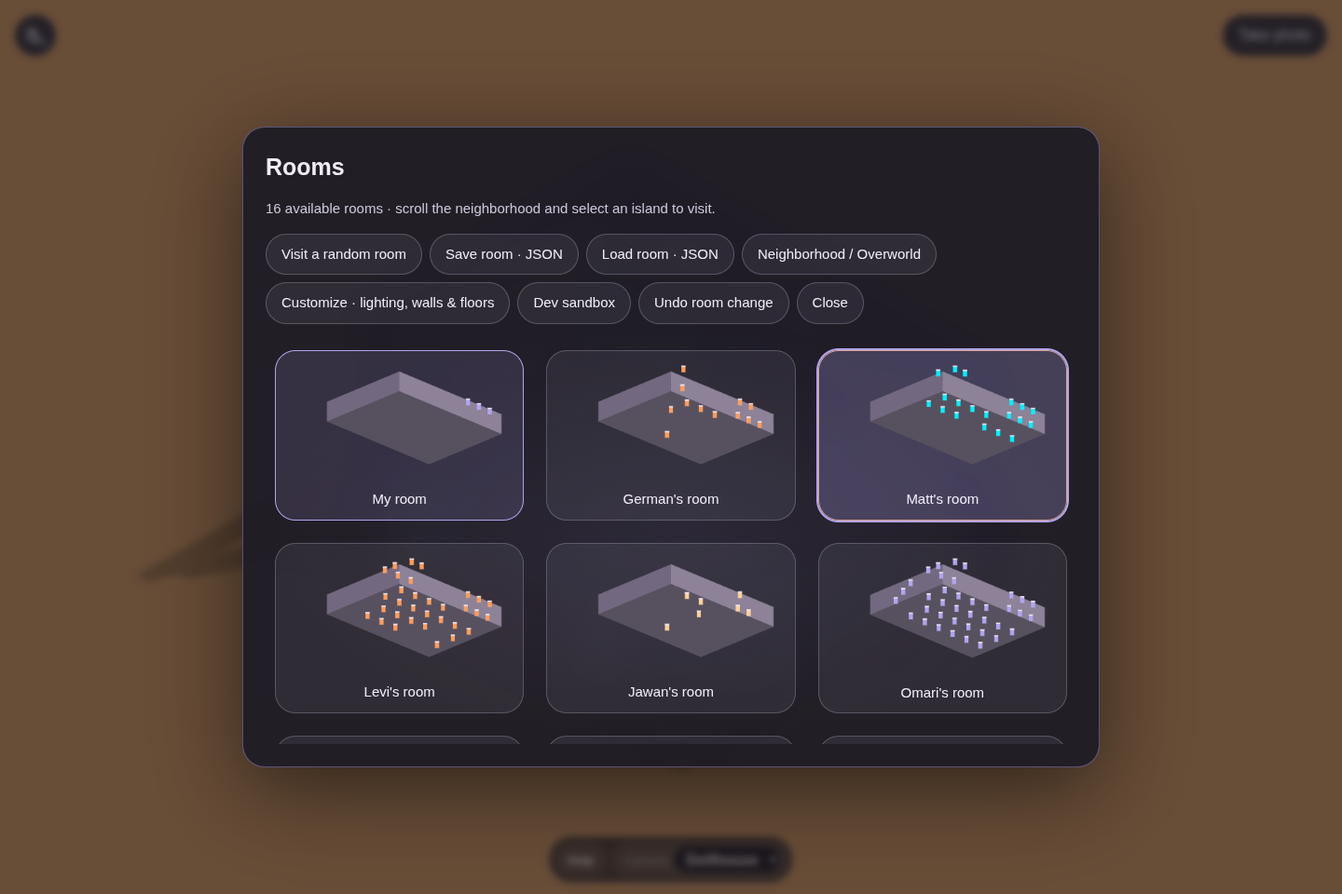
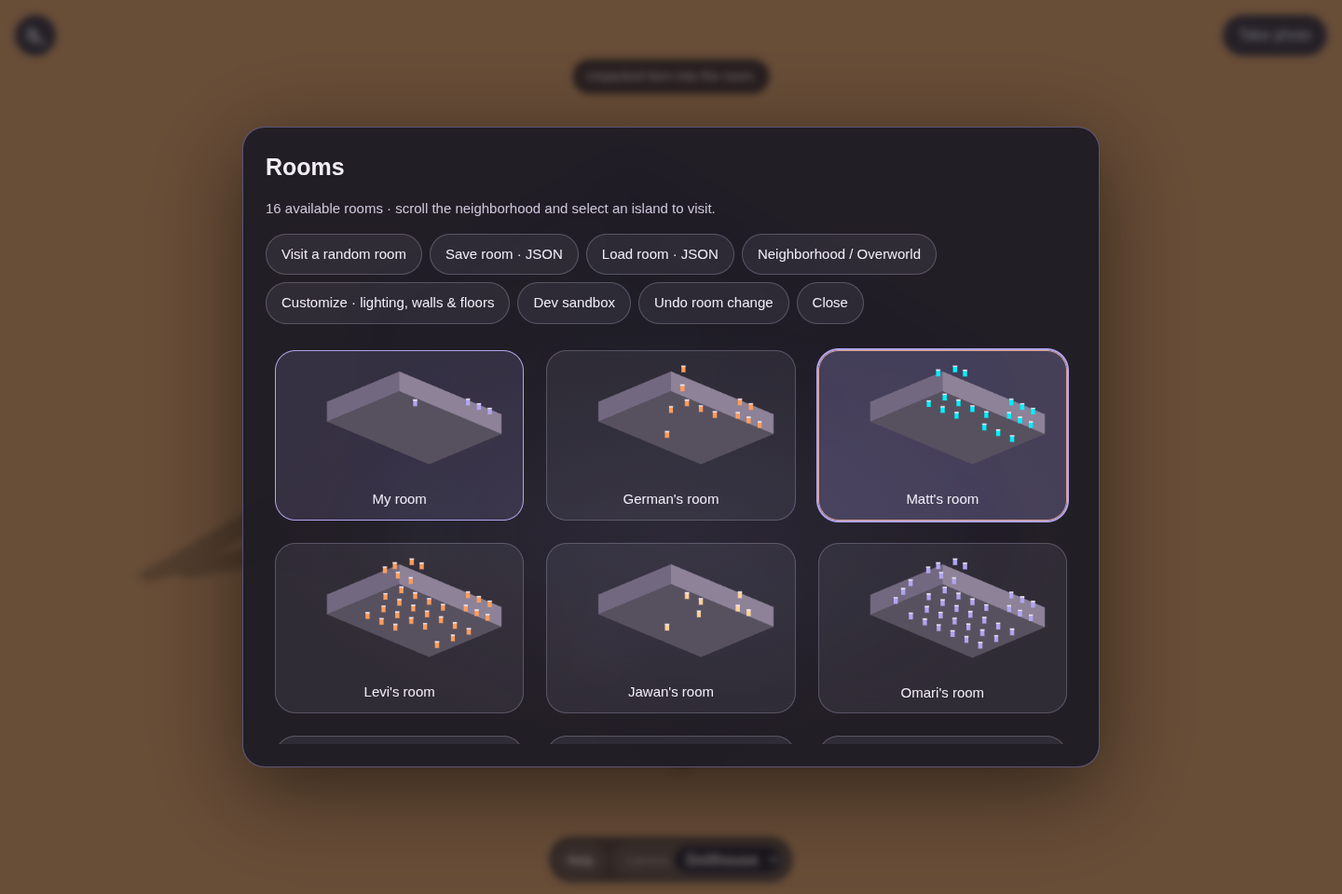
feat(items): add Unpack tray and Pack item wording without schema changes

Changed region(s): [[0.4062, 0.0625, 0.5938, 0.125]]

diff --git a/dev-sandbox/src/core/onboarding.ts b/dev-sandbox/src/core/onboarding.ts
@@ -22,11 +22,11 @@ export const LESSONS: Record<LessonId, TutorialStep[]> = {
     { id:'import-export', lesson:'bookmarks', title:'Export bookmarks on desktop', prompt:'In your browser bookmark manager, export bookmarks as HTML. Or download the sample below. File picking is desktop-first; VR has no file importer. Confirm when ready.', target:'[data-tutorial="export-ready"]', event:'export-ready' },
     { id:'import-empty', lesson:'bookmarks', title:'Try an empty or malformed file', prompt:'Download the empty/malformed sample. Open Import and choose it with Bookmarks file (.html). No supported links means zero changes; cancel the picker and retry anytime.', target:'[data-tutorial="bookmark-file"]', event:'import-empty' },
     { id:'import-file', lesson:'bookmarks', title:'Import the overflow sample', prompt:'Choose tutorial-bookmarks.html using the actual Bookmarks file control. It contains folder tags, an exact duplicate, unsupported URLs, and more links than free pads.', target:'[data-tutorial="bookmark-file"]', event:'imported' },
-    { id:'import-dedupe', lesson:'bookmarks', title:'Import the same sample again', prompt:'Read the added / placed / inbox counts below. Folders become tags, not rooms. Exact URL duplicates are skipped. Select the same sample again: added must be zero.', target:'[data-tutorial="bookmark-file"]', event:'import-duplicate' },
-    { id:'import-inbox', lesson:'bookmarks', title:'Find overflow in Inbox', prompt:'Open the editor and find the rows marked inbox. Imported content remains saved in practice even without a room object. VR supports Inbox and Bring out after desktop import.', target:'.row.inbox', event:'inbox-open' },
-    { id:'import-stash', lesson:'bookmarks', title:'Free a pad', prompt:'Stash one imported object. Stash keeps its link and tags in Inbox; it is not Delete.', target:'.row:not(.inbox) [data-action="stash"]', event:'stashed' },
-    { id:'import-restore', lesson:'bookmarks', title:'Recover an overflow item', prompt:'Bring out one of the original overflow links into the free pad. On VR use Inbox → Bring out. No room reset is needed.', target:'.row.inbox [data-action="bring-out"]', event:'restored' },
-    { id:'import-undo', lesson:'bookmarks', title:'Undo practice import', prompt:'Use Undo to reverse recovery, stash, then the import. Empty/duplicate imports create no undo entry. Personal rooms remain untouched; Exit discards all practice.', target:'[data-tutorial="undo"]', event:'import-undone' },
+    { id:'import-dedupe', lesson:'bookmarks', title:'Import the same sample again', prompt:'Read the added / placed / Packed items counts below. Folders become tags, not rooms. Exact URL duplicates are skipped. Select the same sample again: added must be zero.', target:'[data-tutorial="bookmark-file"]', event:'import-duplicate' },
+    { id:'import-inbox', lesson:'bookmarks', title:'Find overflow in Packed items', prompt:'Open the editor and find the rows marked Packed items. Imported content remains saved in practice even without a room object. In VR open the item pillar’s Unpack tray after desktop import.', target:'.row.inbox', event:'inbox-open' },
+    { id:'import-stash', lesson:'bookmarks', title:'Free a pad', prompt:'Choose Pack item on one imported object. Packing keeps its link and tags in Packed items; it is not Delete.', target:'.row:not(.inbox) [data-action="stash"]', event:'stashed' },
+    { id:'import-restore', lesson:'bookmarks', title:'Recover an overflow item', prompt:'Unpack one of the original overflow links into the free pad. In VR use the item pillar → Unpack. No room reset is needed.', target:'.row.inbox [data-action="bring-out"]', event:'restored' },
+    { id:'import-undo', lesson:'bookmarks', title:'Undo practice import', prompt:'Use Undo to reverse unpacking, packing, then the import. Empty/duplicate imports create no undo entry. Personal rooms remain untouched; Exit discards all practice.', target:'[data-tutorial="undo"]', event:'import-undone' },
   ],
   create: [
     { id: 'create-open', lesson: 'create', title: 'Open Add object', prompt: 'Open Add object from Edit room or the VR menu.', target: '[data-tutorial="open-add"], [data-tutorial="add-object"], [data-tutorial="xr-add"]', event: 'open-add' },
@@ -45,8 +45,8 @@ export const LESSONS: Record<LessonId, TutorialStep[]> = {
     { id:'move-cancel', lesson:'move', title:'Cancel the move', prompt:'Press Escape or Cancel move. The same object and content return to their original pad.', target:'[data-tutorial="cancel-move"]', event:'move-cancelled' },
     { id:'move-pick-again', lesson:'move', title:'Pick up again', prompt:'Select Practice object and Pick up again. Occupied pink pads swap both objects when moving a placed object; neither content is deleted. Use a free yellow pad next.', target:'[data-action="pick-up"]', event:'picked' },
     { id: 'move-place' , lesson: 'move', title: 'Place it', prompt: 'Drop it on a free pad.', target: '.slot-marker, [data-tutorial="place-pad"]', event: 'placed' },
-    { id: 'move-stash', lesson: 'move', title: 'Put it away', prompt: 'Put away / Stash sends it to Inbox, not delete.', target: 'button[data-action="stash"], [data-tutorial="xr-stash"]', event: 'stashed' },
-    { id: 'move-restore', lesson: 'move', title: 'Bring it back', prompt: 'Open Inbox and restore it.', target: '[data-action="bring-out"], [data-tutorial="xr-inbox"]', event: 'restored' },
+    { id: 'move-stash', lesson: 'move', title: 'Pack item', prompt: 'Pack item keeps its content in the item pillar’s Unpack tray; it does not delete it.', target: 'button[data-action="stash"], [data-tutorial="xr-stash"]', event: 'stashed' },
+    { id: 'move-restore', lesson: 'move', title: 'Bring it back', prompt: 'Open the item pillar’s Unpack tray and restore it.', target: '[data-action="bring-out"], [data-tutorial="xr-inbox"]', event: 'restored' },
   ],
   rooms: [
     { id: 'rooms-open', lesson: 'rooms', title: 'Open Rooms', prompt: 'Open the Rooms list. Each room keeps its own local save.', target: '[data-tutorial="rooms"], [data-tutorial="xr-rooms"]', event: 'open-rooms' },

diff --git a/dev-sandbox/src/xr/interaction.ts b/dev-sandbox/src/xr/interaction.ts
@@ -1,4 +1,5 @@
 import type { Store } from '../core/store';
+import { packedItems, unpackItem, unpackMessage } from '../core/packed-items';
 import { roomCatalog, randomRoom, visitCatalogRoom } from '../core/room-portal';
 import { OBJECT_KINDS, OBJECT_LABELS, type ObjectKind } from '../core/types';
 import { LIGHTING_PRESETS, type Lighting } from '../core/appearance';
@@ -210,6 +211,7 @@ export interface PanelButton {
 }
 
 export interface PanelActionResult {
+  status?: string;
   devSandbox?: boolean;
   roomFile?: 'save' | 'load';
   portalFiles?: boolean;
@@ -304,7 +306,7 @@ export function objectActions(store: Store): PanelButton[] {
   const actions: PanelButton[] = [
     { id: 'page:object', label: 'Edit' },
     { id: 'move', label: 'Move' },
-    { id: 'stash:' + selected.id, label: 'Put away' },
+    { id: 'stash:' + selected.id, label: 'Pack item' },
   ];
   if (inspectPreview(store, selected.id).href) actions.push({ id: 'open:link', label: 'Open' });
   return actions;
@@ -340,6 +342,7 @@ export function panelButtons(store: Store, page: PanelPage, rooms: NeighborhoodR
     { id: 'page:home', label: 'Back' },
     { id: 'page:create', label: 'Add link or text (VR keyboard)' },
     { id: 'portal:drop', label: '⭐ Random drop' },
+    { id: 'page:inbox', label: 'Unpack' },
     { id: 'portal:files', label: 'Files, photos & bookmarks (browser form)' },
     { id: 'portal:clean', label: 'Hold trigger to spring clean' },
   ];
@@ -372,10 +375,11 @@ export function panelButtons(store: Store, page: PanelPage, rooms: NeighborhoodR
     ];
   }
   if (page === 'inbox') {
-    const inbox = store.state.contentItems.filter((item) => !store.repFor(item.id));
+    const inbox = packedItems(store);
     return [
-      { id: 'page:home', label: 'Back' },
-      ...inbox.map((item) => ({ id: 'out:' + item.id, label: `Bring out: ${item.title}` })),
+      { id: 'page:portal', label: 'Back to Items' },
+      ...(!inbox.length ? [{ id: 'packed:empty', label: 'No packed items. Pack an item to keep it here.' }] : []),
+      ...inbox.map((item) => ({ id: 'out:' + item.id, label: `Unpack: ${item.title}` })),
     ];
   }
   if (page === 'rooms') {
@@ -433,7 +437,7 @@ export function panelButtons(store: Store, page: PanelPage, rooms: NeighborhoodR
       { id: 'guide:rooms', label: 'Practice: rooms' },
       { id: 'guide:style', label: 'Practice: style' },
       { id: 'howto:create', label: 'Create an item' },
-      { id: 'howto:move', label: 'Move and put away' },
+      { id: 'howto:move', label: 'Move and pack items' },
       { id: 'howto:rooms', label: 'Visit rooms' },
       { id: 'howto:style', label: 'Change the look' },
       { id: 'howto:skip', label: 'Skip how-to' },
@@ -442,7 +446,7 @@ export function panelButtons(store: Store, page: PanelPage, rooms: NeighborhoodR
   if (page.startsWith('howto-')) {
     const copy: Record<string, string> = {
       'howto-create': 'Desktop: tap + then Add object. VR: assign a kind, then place it on a pad.',
-      'howto-move': 'Select an object, choose Move, then a pad. Put away sends it to Inbox. Cancel restores it.',
+      'howto-move': 'Select an object, choose Move, then a pad. Pack item keeps it in the item pillar’s Unpack tray. Cancel restores a move.',
       'howto-rooms': 'Open Rooms, pick a saved room, then Return home. Visiting does not overwrite your save.',
       'howto-style': 'Lighting, Surfaces, and Theme change this room only. Music is independent.',
     };
@@ -472,9 +476,9 @@ export function panelButtons(store: Store, page: PanelPage, rooms: NeighborhoodR
     { id: 'undo', label: store.canUndo ? 'Undo' : 'Undo (nothing yet)' },
     { id: 'cancel', label: 'Cancel selection' },
   );
-  if (selected) home.push({ id: 'stash:' + selected.id, label: 'Stash' });
+  if (selected) home.push({ id: 'stash:' + selected.id, label: 'Pack item' });
   if (store.visiting) home.push({ id: 'home:return', label: 'Return home' });
-  home.push({ id: 'page:inbox', label: 'Inbox' }, { id: 'exit', label: 'Exit VR' });
+  home.push({ id: 'exit', label: 'Exit VR' });
   return home;
 }
 
@@ -596,7 +600,7 @@ export function runPanelAction(store: Store, id: string, rooms: NeighborhoodRoom
   else if (id.startsWith('kind:') && store.selectedId) store.setKind(store.selectedId, id.slice(5) as ObjectKind);
   else if (id.startsWith('light:')) { store.setLighting((id.slice(6) || undefined) as Lighting | undefined); return { tutorialEvent: 'styled' }; }
   else if (id.startsWith('stash:') && store.selectedId) store.stash(store.selectedId);
-  else if (id.startsWith('out:')) store.bringOut(id.slice(4));
+  else if (id.startsWith('out:')) return { status: unpackMessage(unpackItem(store, id.slice(4))) };
   else if (id.startsWith('music:')) {
     const value = id.slice(6);
     if (value === 'follow') store.setSoundtrack(undefined);

diff --git a/dev-sandbox/tests/unpack-tray.test.ts b/dev-sandbox/tests/unpack-tray.test.ts
@@ -1,0 +1,32 @@
+import test from 'node:test';
+import assert from 'node:assert/strict';
+import { Store,newRoom } from '../src/core/store';
+import { packedItems,unpackItem } from '../src/core/packed-items';
+import { LESSONS } from '../src/core/onboarding';
+import { panelButtons,runPanelAction } from '../src/xr/interaction';
+test('visible tutorial copy says Pack item/Unpack while compatibility IDs remain unchanged',()=>{
+ for(const step of Object.values(LESSONS).flat())assert.doesNotMatch(step.title+' '+step.prompt,/stash|inbox/i);
+ const step=LESSONS.move.find(s=>s.id==='move-stash')!;assert.equal(step.event,'stashed');assert.match(step.target,/data-action="stash"/);assert.match(step.title,/Pack item/);
+});
+const saved=new Map<string,string>();
+globalThis.localStorage={getItem:(k:string)=>saved.get(k)??null,setItem:(k:string,v:string)=>saved.set(k,v)} as Storage;
+test('Pack item then Unpack restores the same content and chosen model, with no duplicate and persisted state',()=>{
+ const store=new Store(newRoom('Mine'),'unpack-proof');const id=store.addItem({title:'My guitar',sourceRef:'https://example.com/guitar',kind:'guitar'});
+ const content=store.state.representations.find(r=>r.id===id)!.contentItemId;store.stash(id);
+ assert.equal(packedItems(store).length,1);assert.equal(unpackItem(store,content),'unpacked');
+ assert.equal(store.repFor(content)?.objectKind,'guitar');assert.ok(store.slotOf(store.repFor(content)!.id));
+ assert.equal(unpackItem(store,content),'already');assert.equal(store.state.representations.filter(r=>r.contentItemId===content).length,1);
+ const reloaded=new Store(Store.loadSaved('unpack-proof')!,'unpack-proof');assert.equal(reloaded.repFor(content)?.objectKind,'guitar');assert.equal(packedItems(reloaded).length,0);
+});
+test('full rooms leave packed content intact with feedback instead of creating a duplicate or losing its model',()=>{
+ const store=new Store(newRoom('Full'));const id=store.addItem({title:'Keep me',sourceRef:'https://example.com/full',kind:'book'});const content=store.state.representations.find(r=>r.id===id)!.contentItemId;store.stash(id);
+ for(const [i,slot] of store.layout.slots.entries()){store.state.representations.push({id:'filled-'+i,contentItemId:'other-'+i,objectKind:'book'});store.state.placements.push({representationId:'filled-'+i,slotId:slot.id});}
+ assert.equal(unpackItem(store,content),'full');assert.equal(store.repFor(content),undefined);assert.equal(packedItems(store).some(c=>c.id===content),true);assert.equal(store.content(content)?.lastObjectKind,'book');
+});
+test('XR item pillar exposes Unpack tray, empty feedback, Pack item action and real restore status',()=>{
+ const store=new Store(newRoom('Mine'));assert.ok(panelButtons(store,'portal').some(b=>b.id==='page:inbox'&&b.label==='Unpack'));
+ assert.ok(panelButtons(store,'inbox').some(b=>b.label.includes('No packed items')));
+ const id=store.addItem({title:'Packed note',sourceRef:'hello',type:'note'});store.select(id);runPanelAction(store,'stash:'+id);const c=packedItems(store)[0];
+ assert.ok(panelButtons(store,'inbox').some(b=>b.id==='out:'+c.id&&b.label.includes('Unpack')));
+ assert.match(runPanelAction(store,'out:'+c.id).status!,/Unpacked/);
+});

diff --git a/dev-sandbox/src/xr/panel.ts b/dev-sandbox/src/xr/panel.ts
@@ -265,11 +265,11 @@ export class XrPanel {
     c.font = '28px system-ui, sans-serif';
     const preview = this.store.selectedId ? inspectPreview(this.store, this.store.selectedId) : null;
     c.fillStyle = HUD.mint;
-    const section = this.page === 'home' ? 'ROOM CONTROL' : this.page === 'create' ? (this.draft.editing ? 'EDIT CONTENT' : 'CREATE OBJECT') : this.page.replaceAll('-', ' ').toUpperCase();
+    const section = this.page === 'home' ? 'ROOM CONTROL' : this.page === 'create' ? (this.draft.editing ? 'EDIT CONTENT' : 'CREATE OBJECT') : this.page === 'inbox' ? 'UNPACK' : this.page.replaceAll('-', ' ').toUpperCase();
     c.fillText(section, 48, 122);
     const detail = this.page === 'create' && this.draft.error
       ? this.draft.error
-      : this.status || (this.page === 'overworld' ? 'Select an island to visit. More islands shows every available room.' : this.page === 'room-portal' ? 'JSON uses a browser form; without DOM overlay it exits VR.' : this.page === 'portal' ? 'No overlay? Browser import exits VR; your room stays saved.' : this.page === 'jukebox' || this.page === 'music' ? 'Pick a track, then Play. Own music uploads are not supported yet.' : preview?.href || preview?.detail || 'Point at an object to see its name and link.');
+      : this.status || (this.page === 'inbox' ? 'Select a packed item to return its model to a free spot.' : this.page === 'overworld' ? 'Select an island to visit. More islands shows every available room.' : this.page === 'room-portal' ? 'JSON uses a browser form; without DOM overlay it exits VR.' : this.page === 'portal' ? 'No overlay? Browser import exits VR; your room stays saved.' : this.page === 'jukebox' || this.page === 'music' ? 'Pick a track, then Play. Own music uploads are not supported yet.' : preview?.href || preview?.detail || 'Point at an object to see its name and link.');
     c.fillStyle = this.page === 'create' && this.draft.error ? HUD.danger : HUD.muted;
     const description = this.page === 'create' && this.draft.error ? detail : preview?.title ? preview.title + ' · ' + detail : detail;
     c.fillText(this.clip(c, description, 928), 48, 158);

diff --git a/dev-sandbox/src/demo/demo-hud.ts b/dev-sandbox/src/demo/demo-hud.ts
@@ -1,4 +1,5 @@
 import type { Store } from '../core/store';
+import { packedItems, unpackItem, unpackMessage } from '../core/packed-items';
 import { ROOM_TRACKS, TRACK_LABELS, validTrack, type Soundtrack } from '../core/soundtrack';
 import { ensureJukeboxTrack } from '../core/room-amenities';
 import { buildAddForm, buildImport, type FormHost } from '../views/add-forms';
@@ -257,10 +258,31 @@ export function mountSavePointPanel(
   });
   window.addEventListener('pointerup', endHold);
   window.addEventListener('pointercancel', endHold);
+  const unpack = el('details', 'demo-unpack');
+  const unpackSummary = el('summary', '', 'Unpack');
+  const packedList = el('div', 'demo-packed-list');
+  const unpackStatus = el('p', 'demo-unpack-status');
+  unpackStatus.setAttribute('role', 'status');
+  unpack.append(unpackSummary, packedList, unpackStatus);
+  const renderPacked = () => {
+    const items = packedItems(store);
+    unpackSummary.textContent = 'Unpack';
+    packedList.replaceChildren();
+    if (!items.length) packedList.append(el('p', '', 'No packed items. Pack an item to keep it here, then Unpack it later.'));
+    for (const item of items) packedList.append(button('', `Unpack ${item.title}`, () => {
+      const message = unpackMessage(unpackItem(store, item.id));
+      unpackStatus.textContent = message;
+      say(message, 3000);
+      renderPacked();
+    }));
+  };
+  store.subscribe(renderPacked);
+  renderPacked();
   menu.append(
     head,
     button('', '⭐ Random drop', () => { close(); onRandomDrop(); }),
     button('', 'Add link or file', () => show(addSheet)),
+    unpack,
     button('', 'Import from bookmarks (file)', () => show(importSheet)),
     clean,
   );
@@ -276,7 +298,7 @@ export function mountSavePointPanel(
   document.body.append(backdrop, menu, addSheet, importSheet);
 
   return {
-    open: () => { if (store.canEdit) show(menu); },
+    open: () => { if (store.canEdit) { unpackStatus.textContent = ''; renderPacked(); show(menu); } },
     close,
     get isOpen() { return !menu.hidden; },
     showClean() { clean.hidden = false; },

diff --git a/dev-sandbox/src/views/menu.ts b/dev-sandbox/src/views/menu.ts
@@ -6,6 +6,7 @@ import { preparePhoto } from './photo-upload';
 import { previewOpenUrl } from '../core/preview';
 import { SHOW_PREVIEW_BUTTON } from '../core/demo-flags';
 import { Store } from '../core/store';
+import { unpackItem, unpackMessage } from '../core/packed-items';
 import { ROOMS_PICKER_ORDER, displayRoomName, isDemoHomeAlias, isDemoSessionRoom, openRoom, seedRoom } from '../core/rooms';
 import { THEMES } from '../core/themes';
 import { OBJECT_KINDS, OBJECT_LABELS, type ObjectKind } from '../core/types';
@@ -490,12 +491,12 @@ export class MenuView {
     if (href) meta.append(el('a', { href, target: '_blank', rel: 'noopener noreferrer', textContent: 'open' }));
     else meta.append(c.imageData ? 'local photo · included in export' : c.sourceRef || 'note');
 
-    const where = el('div', { class: 'where' }, rep ? (slotLabel ?? 'held: pick a spot in the room') : 'inbox (not in room)');
+    const where = el('div', { class: 'where' }, rep ? (slotLabel ?? 'held: pick a spot in the room') : 'Packed items (not in room)');
 
     const actions = el('div', { class: 'actions' });
-    const act = (label: string, fn: () => void) => {
+    const act = (label: string, fn: () => void, actionId = label.toLowerCase().replace(/ /g, '-')) => {
       const b = el('button', { textContent: label });
-      b.dataset.action = label.toLowerCase().replace(/ /g, '-');
+      b.dataset.action = actionId;
       b.addEventListener('click', (e) => {
         e.stopPropagation();
         fn();
@@ -521,9 +522,9 @@ export class MenuView {
           store.pickUp(rep.id);
           this.closeSheets();
         });
-        act('Stash', () => store.stash(rep.id));
+        act('Pack item', () => store.stash(rep.id), 'stash');
       } else {
-        act('Bring out', () => store.bringOut(c.id));
+        act('Unpack', () => this.flash(unpackMessage(unpackItem(store, c.id))), 'bring-out');
       }
       if (!c.locked) act('Delete', () => store.deleteContent(c.id));
     }

diff --git a/dev-sandbox/src/views/tutorial.ts b/dev-sandbox/src/views/tutorial.ts
@@ -36,7 +36,7 @@ export class TutorialView {
     document.addEventListener('palace-import', event => {
       if (!this.store.canEdit || this.state.lesson !== 'bookmarks') return;
       const {entries,added,placed} = (event as CustomEvent<{entries:BookmarkEntry[];added:number;placed:number}>).detail;
-      this.result = `${added} added · ${placed} placed · ${added-placed} to Inbox. Folder tags: ${[...new Set(entries.map(e=>e.folder).filter(Boolean))].join(', ') || 'none'}.`;
+      this.result = `${added} added · ${placed} placed · ${added-placed} to Packed items. Folder tags: ${[...new Set(entries.map(e=>e.folder).filter(Boolean))].join(', ') || 'none'}.`;
       if (!entries.length && !added) this.accept('import-empty');
       else if (added > 0 && placed > 0 && added > placed && entries.every(e=>e.url.startsWith('https://example.com/practice/'))) {
         this.overflow = new Set(this.store.state.contentItems.filter(c=>!this.store.repFor(c.id)).map(c=>c.id));
@@ -89,7 +89,7 @@ export class TutorialView {
     const intro = button('Watch the intro', () => { window.location.assign(INTRO_PATH); });
     intro.dataset.tutorial = 'watch-intro';
     this.card.append(intro);
-    for (const [id,label] of Object.entries({bookmarks:'Import bookmarks',create:'Create content',move:'Move, stash and restore',rooms:'Visit local rooms',style:'Themes, lighting and surfaces'})) this.card.append(button(label,()=>this.start(id as LessonId)));
+    for (const [id,label] of Object.entries({bookmarks:'Import bookmarks',create:'Create content',move:'Move, pack and unpack',rooms:'Visit local rooms',style:'Themes, lighting and surfaces'})) this.card.append(button(label,()=>this.start(id as LessonId)));
     this.card.append(button('Go to room',()=>this.goToRoom()));
   }
   private start(lesson: LessonId): void {

diff --git a/dev-sandbox/src/views/add-forms.ts b/dev-sandbox/src/views/add-forms.ts
@@ -115,7 +115,7 @@ export function buildImport(host: FormHost): HTMLElement {
       if (!current()) return;
       const entries = parseBookmarksHtml(text);
       const { added, placed } = host.store.importBookmarks(entries);
-      done(`Imported ${added} bookmarks (${placed} placed, ${added - placed} in inbox).`);
+      done(`Imported ${added} bookmarks (${placed} placed, ${added - placed} in Packed items).`);
       document.dispatchEvent(new CustomEvent('palace-import', {detail:{entries, added, placed}}));
     } catch (e) {
       host.flash(`Could not import bookmarks: ${e instanceof Error ? e.message : String(e)}`);
@@ -123,11 +123,11 @@ export function buildImport(host: FormHost): HTMLElement {
   });
   const files = input('', true, false, (list) => {
     const { added, placed } = host.store.importFiles(entries(list));
-    done(`Added ${added} files by name (${placed} placed in the room, the rest are in the inbox).`);
+    done(`Added ${added} files by name (${placed} placed in the room, the rest are in Packed items).`);
   });
   const folder = input('', true, true, (list) => {
     const { added, placed } = host.store.importFiles(entries(list));
-    done(`Added ${added} files from the folder by name (${placed} placed, the rest in the inbox).`);
+    done(`Added ${added} files from the folder by name (${placed} placed, the rest in Packed items).`);
   });
   const button = (label: string, target: HTMLInputElement) => {
     const b = el('button', { type: 'button', textContent: label });

diff --git a/dev-sandbox/src/demo/demo.css b/dev-sandbox/src/demo/demo.css
@@ -110,6 +110,13 @@ html, body { margin: 0; height: 100dvh; overflow: hidden; background: #000; font
 .demo-panel-close { min-height: 32px; padding: 0 12px; border-radius: 999px; font-size: 12px; }
 .demo-help-list { margin: 0; padding-left: 18px; display: grid; gap: 4px; font-size: 13px; line-height: 1.35; }
 .demo-sp { border-color: rgba(77, 255, 210, 0.45); }
+.demo-unpack summary {cursor:pointer;min-height:44px;display:flex;align-items:center;padding:0 12px;border:1px solid #d5cdeb40;border-radius:14px;background:#e8ddff12;font-weight:600}
+.demo-unpack summary::after {content:'⌄';margin-left:auto}
+.demo-unpack[open] summary::after {content:'⌃'}
+.demo-packed-list {display:grid;gap:6px;max-height:240px;overflow:auto;padding-top:8px;overscroll-behavior:contain}
+.demo-packed-list button {min-height:44px;text-align:left;white-space:normal;border-radius:14px;padding:8px 12px}
+.demo-packed-list p,.demo-unpack-status {margin:6px 0;font-size:13px;color:#d8d2e3}
+.demo-sp {max-height:calc(100dvh - 100px);overflow:auto}
 .demo-sp > button { min-height: 44px; text-align: left; border-radius: 10px; }
 .demo-sp-clean {
   border: 1px solid rgba(77, 255, 210, 0.55);

diff --git a/dev-sandbox/src/xr/session.ts b/dev-sandbox/src/xr/session.ts
@@ -534,7 +534,8 @@ export class XrSession {
           : 'The headset browser blocked audio. Leave VR, press the speaker once, then re-enter.')
         : `Music: ${player.soundState}.`);
     }
-    if (result.page) this.panel.setStatus('');
+    if (result.status) this.panel.setStatus(result.status);
+    else if (result.page) this.panel.setStatus('');
     if (result.page === 'jukebox') ensureJukeboxTrack(this.store);
     if (result.page && result.page !== 'jukebox' && result.page !== 'music') this.amenities.jukebox?.setMouthOpen(0);
     if (result.openEmbed) {
@@ -605,7 +606,7 @@ export class XrSession {
     if (!this.presenting || !this.panel.visible || this.panel.currentPage !== 'portal' || !this.cleanGuard?.()) { this.stopClean(); return; }
     if (now < this.cleanAt) return;
     const id = vacuumTargets(this.store.state)[0];
-    if (!id) { this.panel.setStatus('The first objects stay. The rest are in Inbox.'); this.stopClean(); return; }
+    if (!id) { this.panel.setStatus('The first objects stay. Find packed items in the item pillar’s Unpack tray.'); this.stopClean(); return; }
     this.store.stash(id);
     this.cleanAt = now + 480;
   }

diff --git a/dev-sandbox/src/core/packed-items.ts b/dev-sandbox/src/core/packed-items.ts
@@ -1,0 +1,16 @@
+import type { Store } from './store';
+
+/** Existing inbox content, including never-represented import overflow. No schema changes. */
+export const packedItems = (store: Store) => store.state.contentItems.filter(item => !store.repFor(item.id));
+export type UnpackResult = 'unpacked' | 'full' | 'already' | 'missing';
+export function unpackItem(store: Store, contentId: string): UnpackResult {
+  if (!store.content(contentId)) return 'missing';
+  if (store.repFor(contentId)) return 'already';
+  store.bringOut(contentId);
+  return store.repFor(contentId) ? 'unpacked' : 'full';
+}
+export function unpackMessage(result: UnpackResult): string {
+  return result === 'unpacked' ? 'Unpacked item into the room.'
+    : result === 'full' ? 'Room is full for this model. Pack an item to make space, then try Unpack again.'
+    : result === 'already' ? 'This item is already in the room.' : 'This packed item is no longer available.';
+}

diff --git a/dev-sandbox/tests/room-amenities.test.ts b/dev-sandbox/tests/room-amenities.test.ts
@@ -52,7 +52,7 @@ test('VR scenery sits exactly where the public build puts it', () => {
 
 test('portal and jukebox pages expose real actions independent of onboarding', () => {
   const store = new Store(newRoom());
-  assert.deepEqual(panelButtons(store, 'portal').map(b => b.id), ['page:home', 'page:create', 'portal:drop', 'portal:files', 'portal:clean']);
+  assert.deepEqual(panelButtons(store, 'portal').map(b => b.id), ['page:home', 'page:create', 'portal:drop', 'page:inbox', 'portal:files', 'portal:clean']);
   const music = panelButtons(store, 'jukebox').map(b => b.id);
   for (const id of ['music:follow', 'music:off', 'player:play', 'player:mute', 'player:pause']) assert.ok(music.includes(id));
   assert.deepEqual(runPanelAction(store, 'portal:files'), { portalFiles: true });
